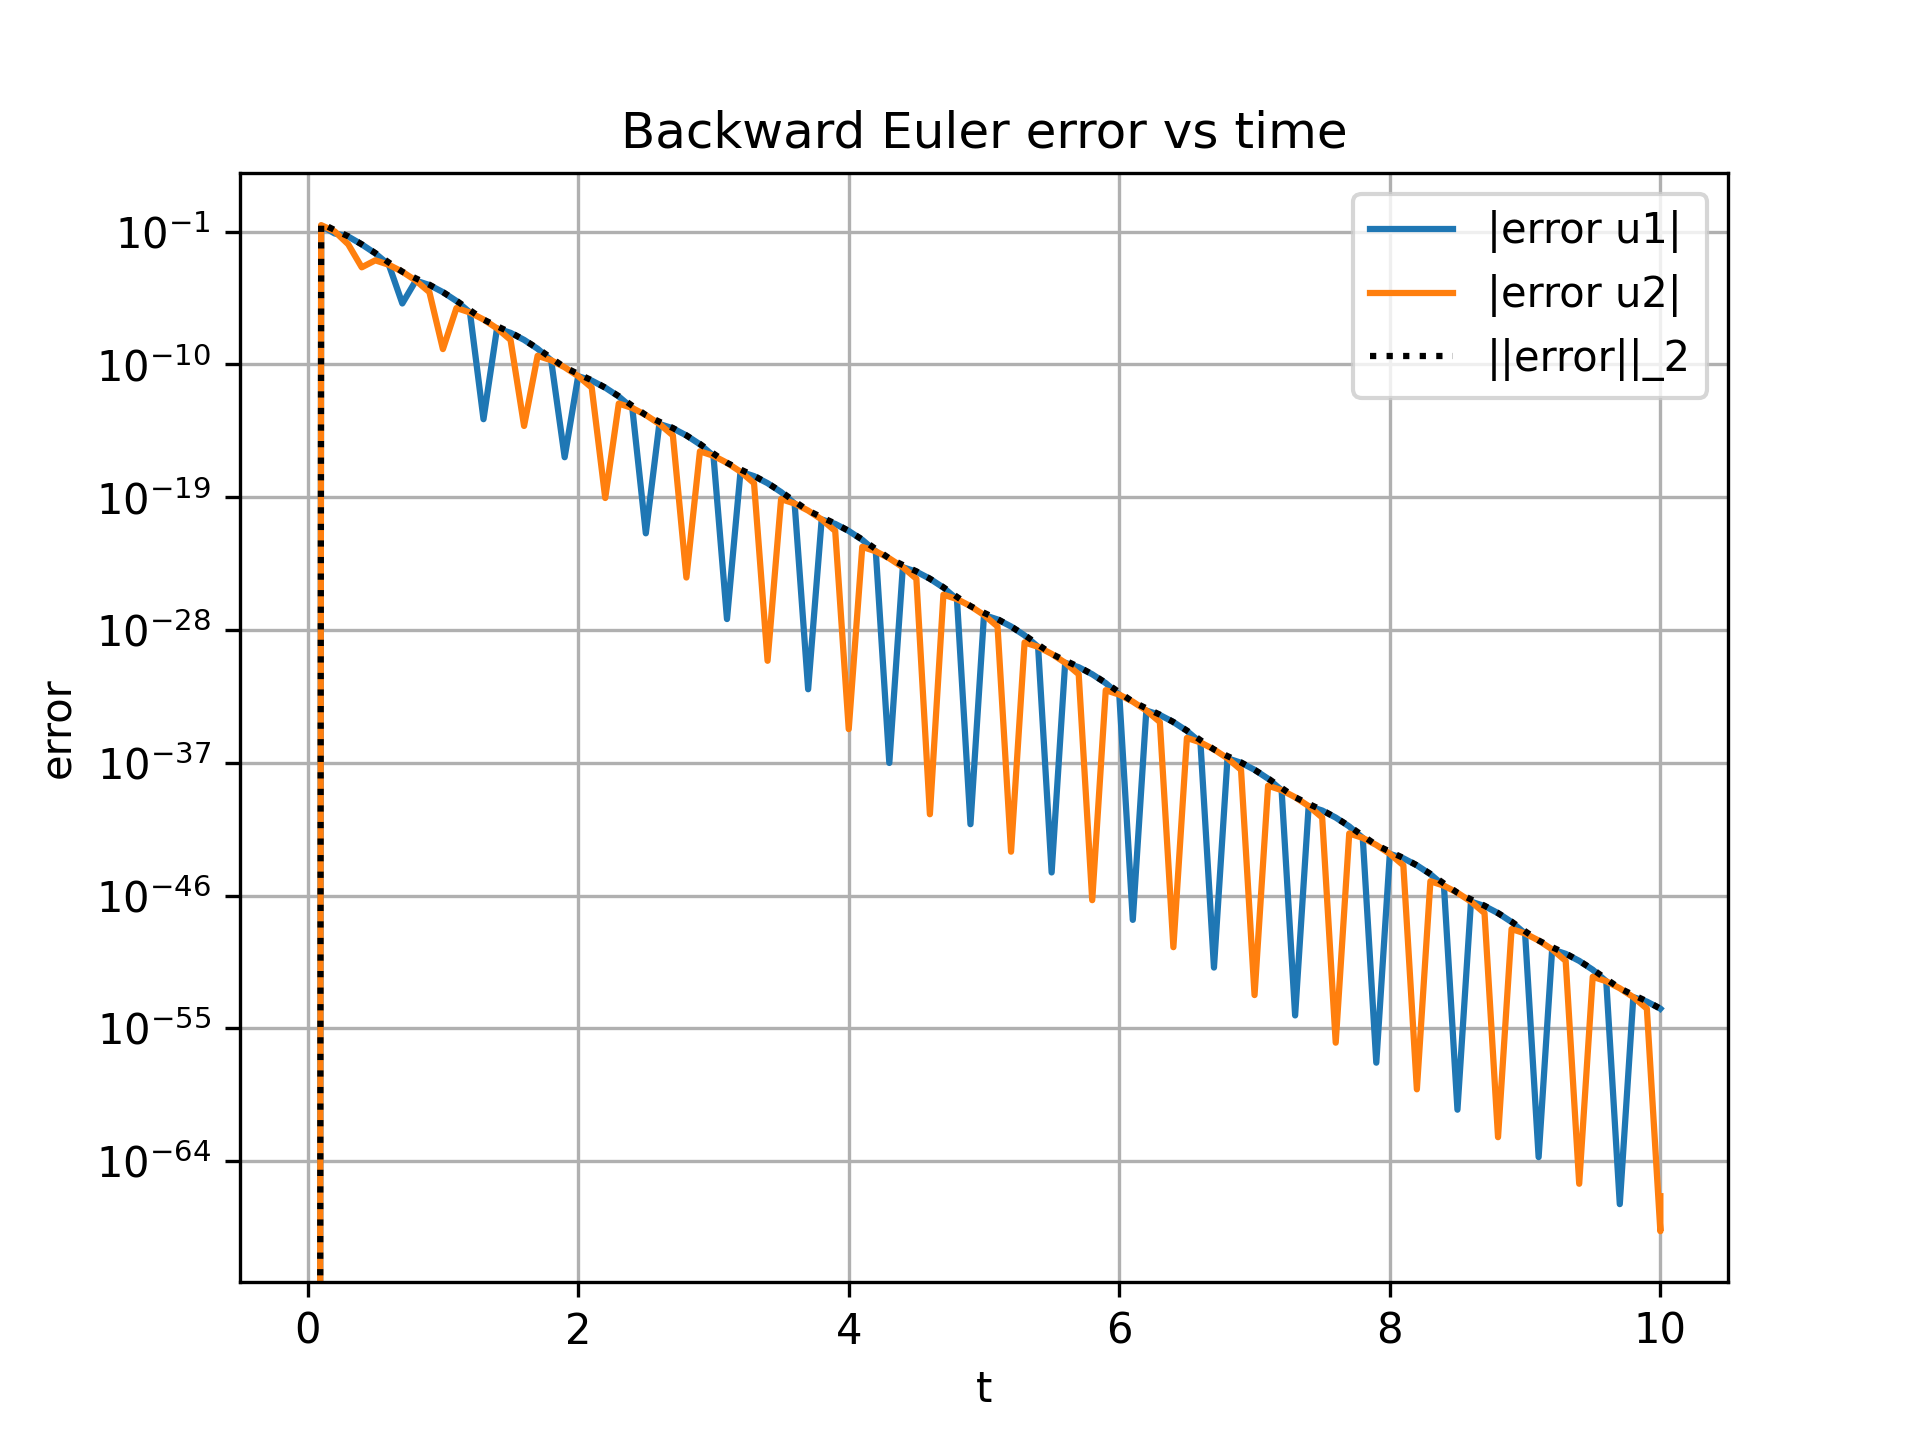
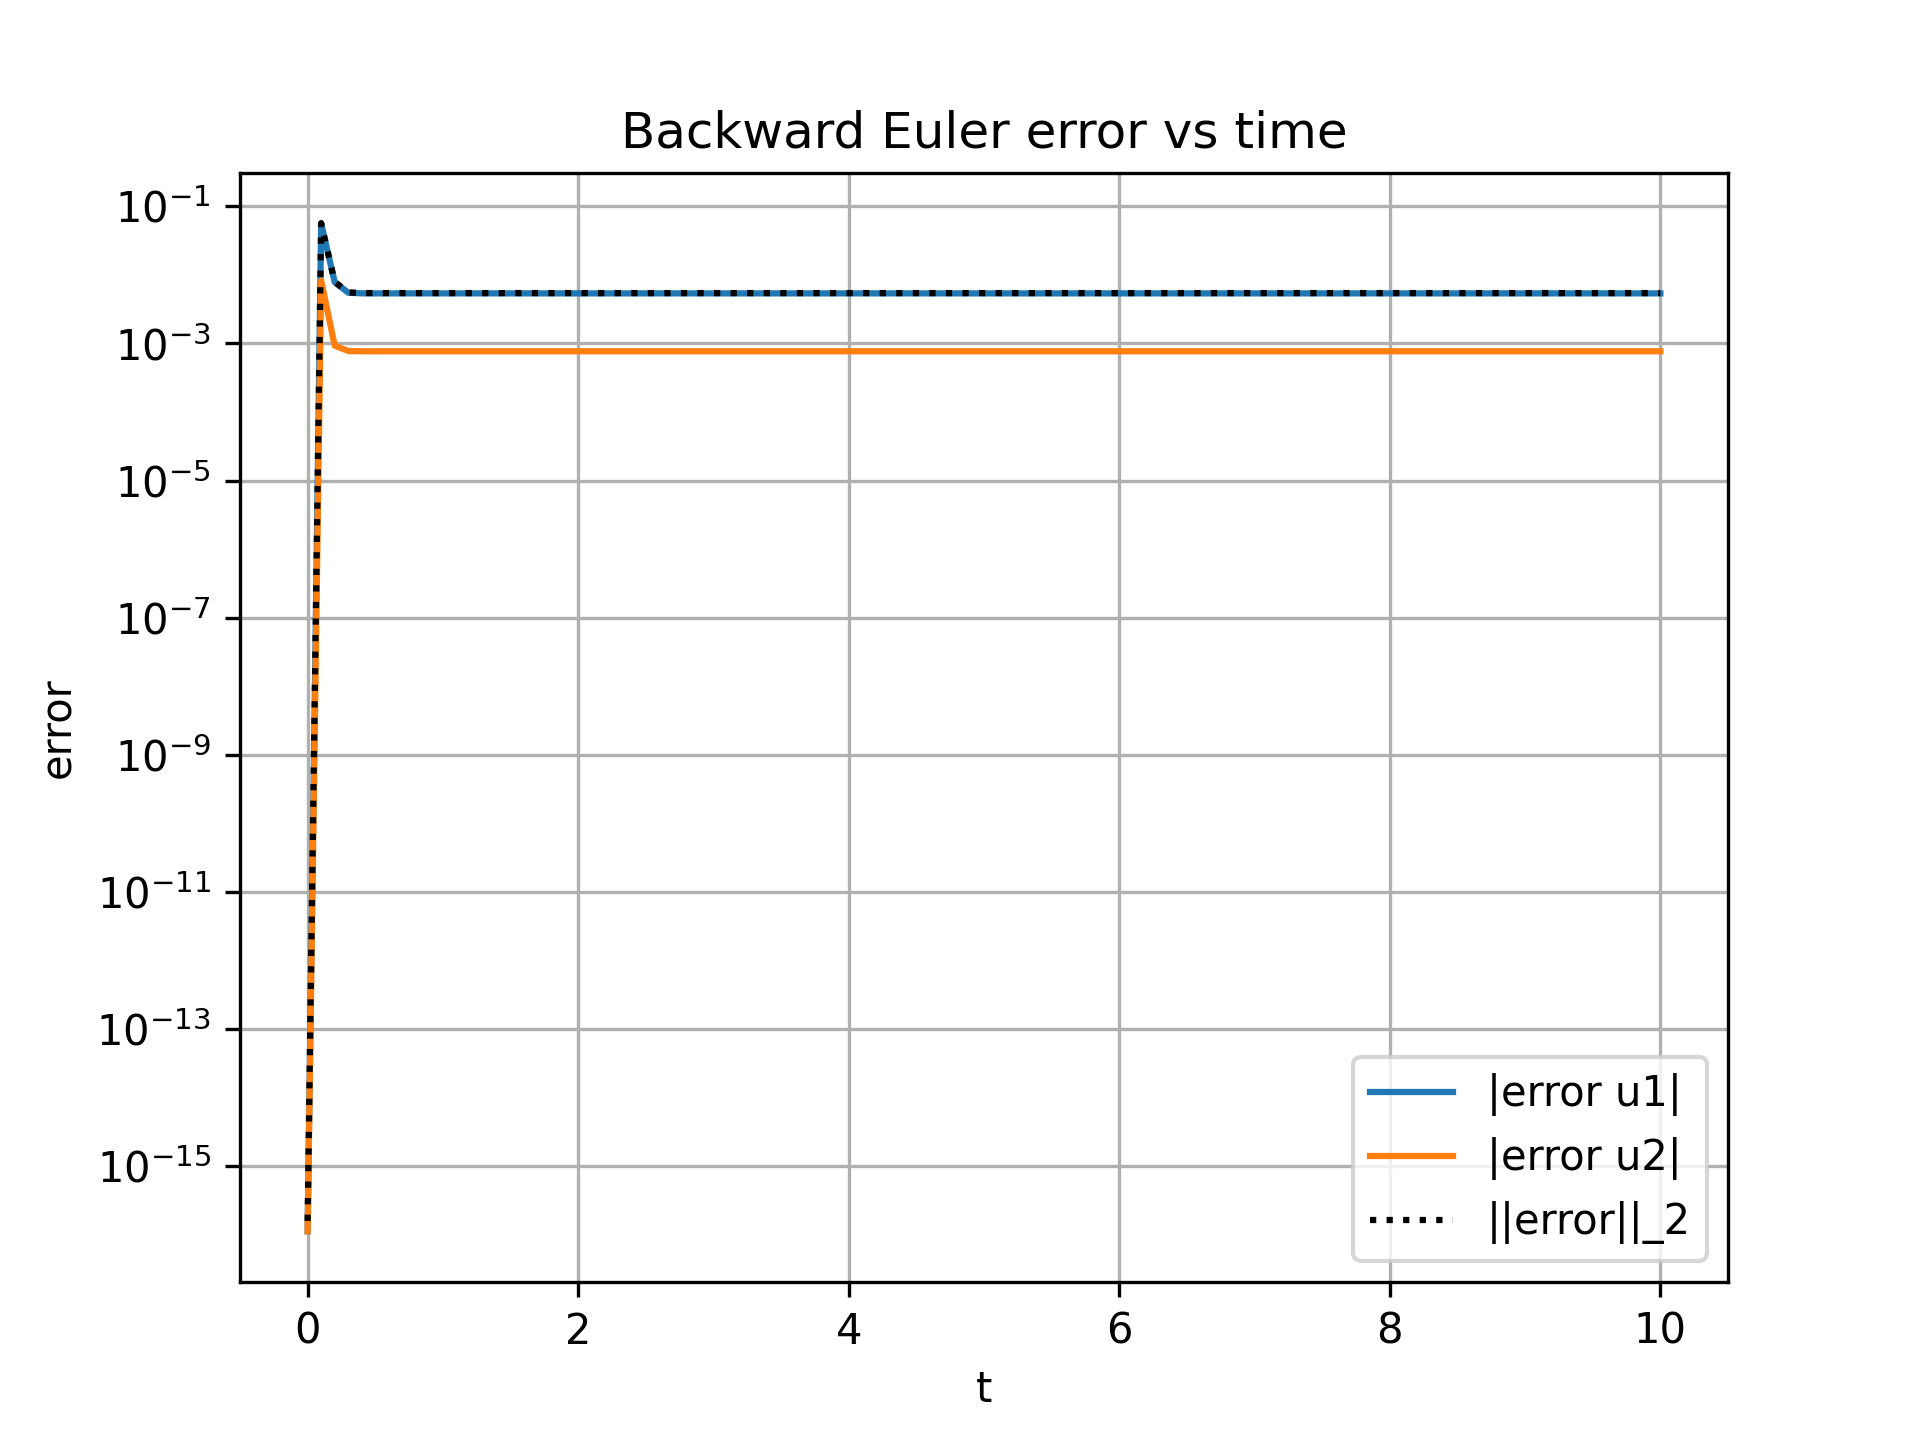
Experiments and results with stiff matrix

diff --git a/etd_simple_experiments/scripts/backward_euler.py b/etd_simple_experiments/scripts/backward_euler.py
@@ -30,7 +30,7 @@ def backward_euler_solve(
     t = float(t0)
     u = u0.copy()
 
-    I = np.eye(d)
+    id = np.eye(d)
 
     while t < T - 1e-15:
         h_step = min(h, T - t)
@@ -38,7 +38,7 @@ def backward_euler_solve(
 
         # Rearranged iteration:
         # (I - hA) u^{k+1} = u_n + h b(t_{n+1}, u^k)
-        M = I - h_step * A
+        M = id - h_step * A
 
         # Initial guess: previous value (or explicit Euler predictor)
         u_guess = u.copy()
@@ -71,7 +71,7 @@ def backward_euler_solve(
 
 def main() -> None:
     # Make A stiff so ETD vs BE behavior is visible
-    alpha = 10.0
+    alpha = 100.0
     t0 = 0.0
     T = 10.0
 
@@ -87,7 +87,6 @@ def main() -> None:
         T=T,
         h=h,
         A=A,
-        b=problem.b,
         fp_iters=50,
         tol=1e-12,
     )

diff --git a/etd_simple_experiments/scripts/etdrk2.py b/etd_simple_experiments/scripts/etdrk2.py
@@ -7,7 +7,7 @@ from etd_simple_experiments.src.manufactured import make_stiff_linear_problem
 from etd_simple_experiments.src.etd_methods import etdrk2_solve
 
 def main() -> None:
-    alpha = 20.0  # mild stiffness (try 50.0 later for stiff)
+    alpha = 100.0  # mild stiffness (try 50.0 later for stiff)
     t0 = 0.0
     T = 10.0
     h = 0.1

diff --git a/etd_simple_experiments/scripts/etd1.py b/etd_simple_experiments/scripts/etd1.py
@@ -8,7 +8,7 @@ from etd_simple_experiments.src.etd_methods import etd1_solve
 
 
 def main() -> None:
-    alpha = 10.0  # mild stiffness (try 50.0 later for stiff)
+    alpha = 100.0  # mild stiffness (try 50.0 later for stiff)
     t0 = 0.0
     T = 10.0
     h = 0.1

diff --git a/etd_simple_experiments/src/etd_methods.py b/etd_simple_experiments/src/etd_methods.py
@@ -1,10 +1,8 @@
 from __future__ import annotations
 
 from dataclasses import dataclass
-from typing import Callable, Dict, Optional, Tuple
-
+from typing import Callable, Optional
 import numpy as np
-
 from .phi import PhiCache
 
 Array = np.ndarray

diff --git a/etd_simple_experiments/src/phi.py b/etd_simple_experiments/src/phi.py
@@ -1,7 +1,7 @@
 from __future__ import annotations
 import math
 from dataclasses import dataclass
-from matrices import check_symmetric
+from .matrices import check_symmetric
 from typing import Dict, Iterable, Optional
 import numpy as np
 

diff --git a/etd_simple_experiments/src/matrices.py b/etd_simple_experiments/src/matrices.py
@@ -1,7 +1,7 @@
 import numpy as np
 
 def matrix_2x2(alpha: float = 1.0) -> np.ndarray:
-    A = np.array([[-2.0, -3.0], [1.0, -2.0]])
+    A = np.array([[-2.0, 1.0], [1.0, -20.0]])
     return alpha * A
 
 
